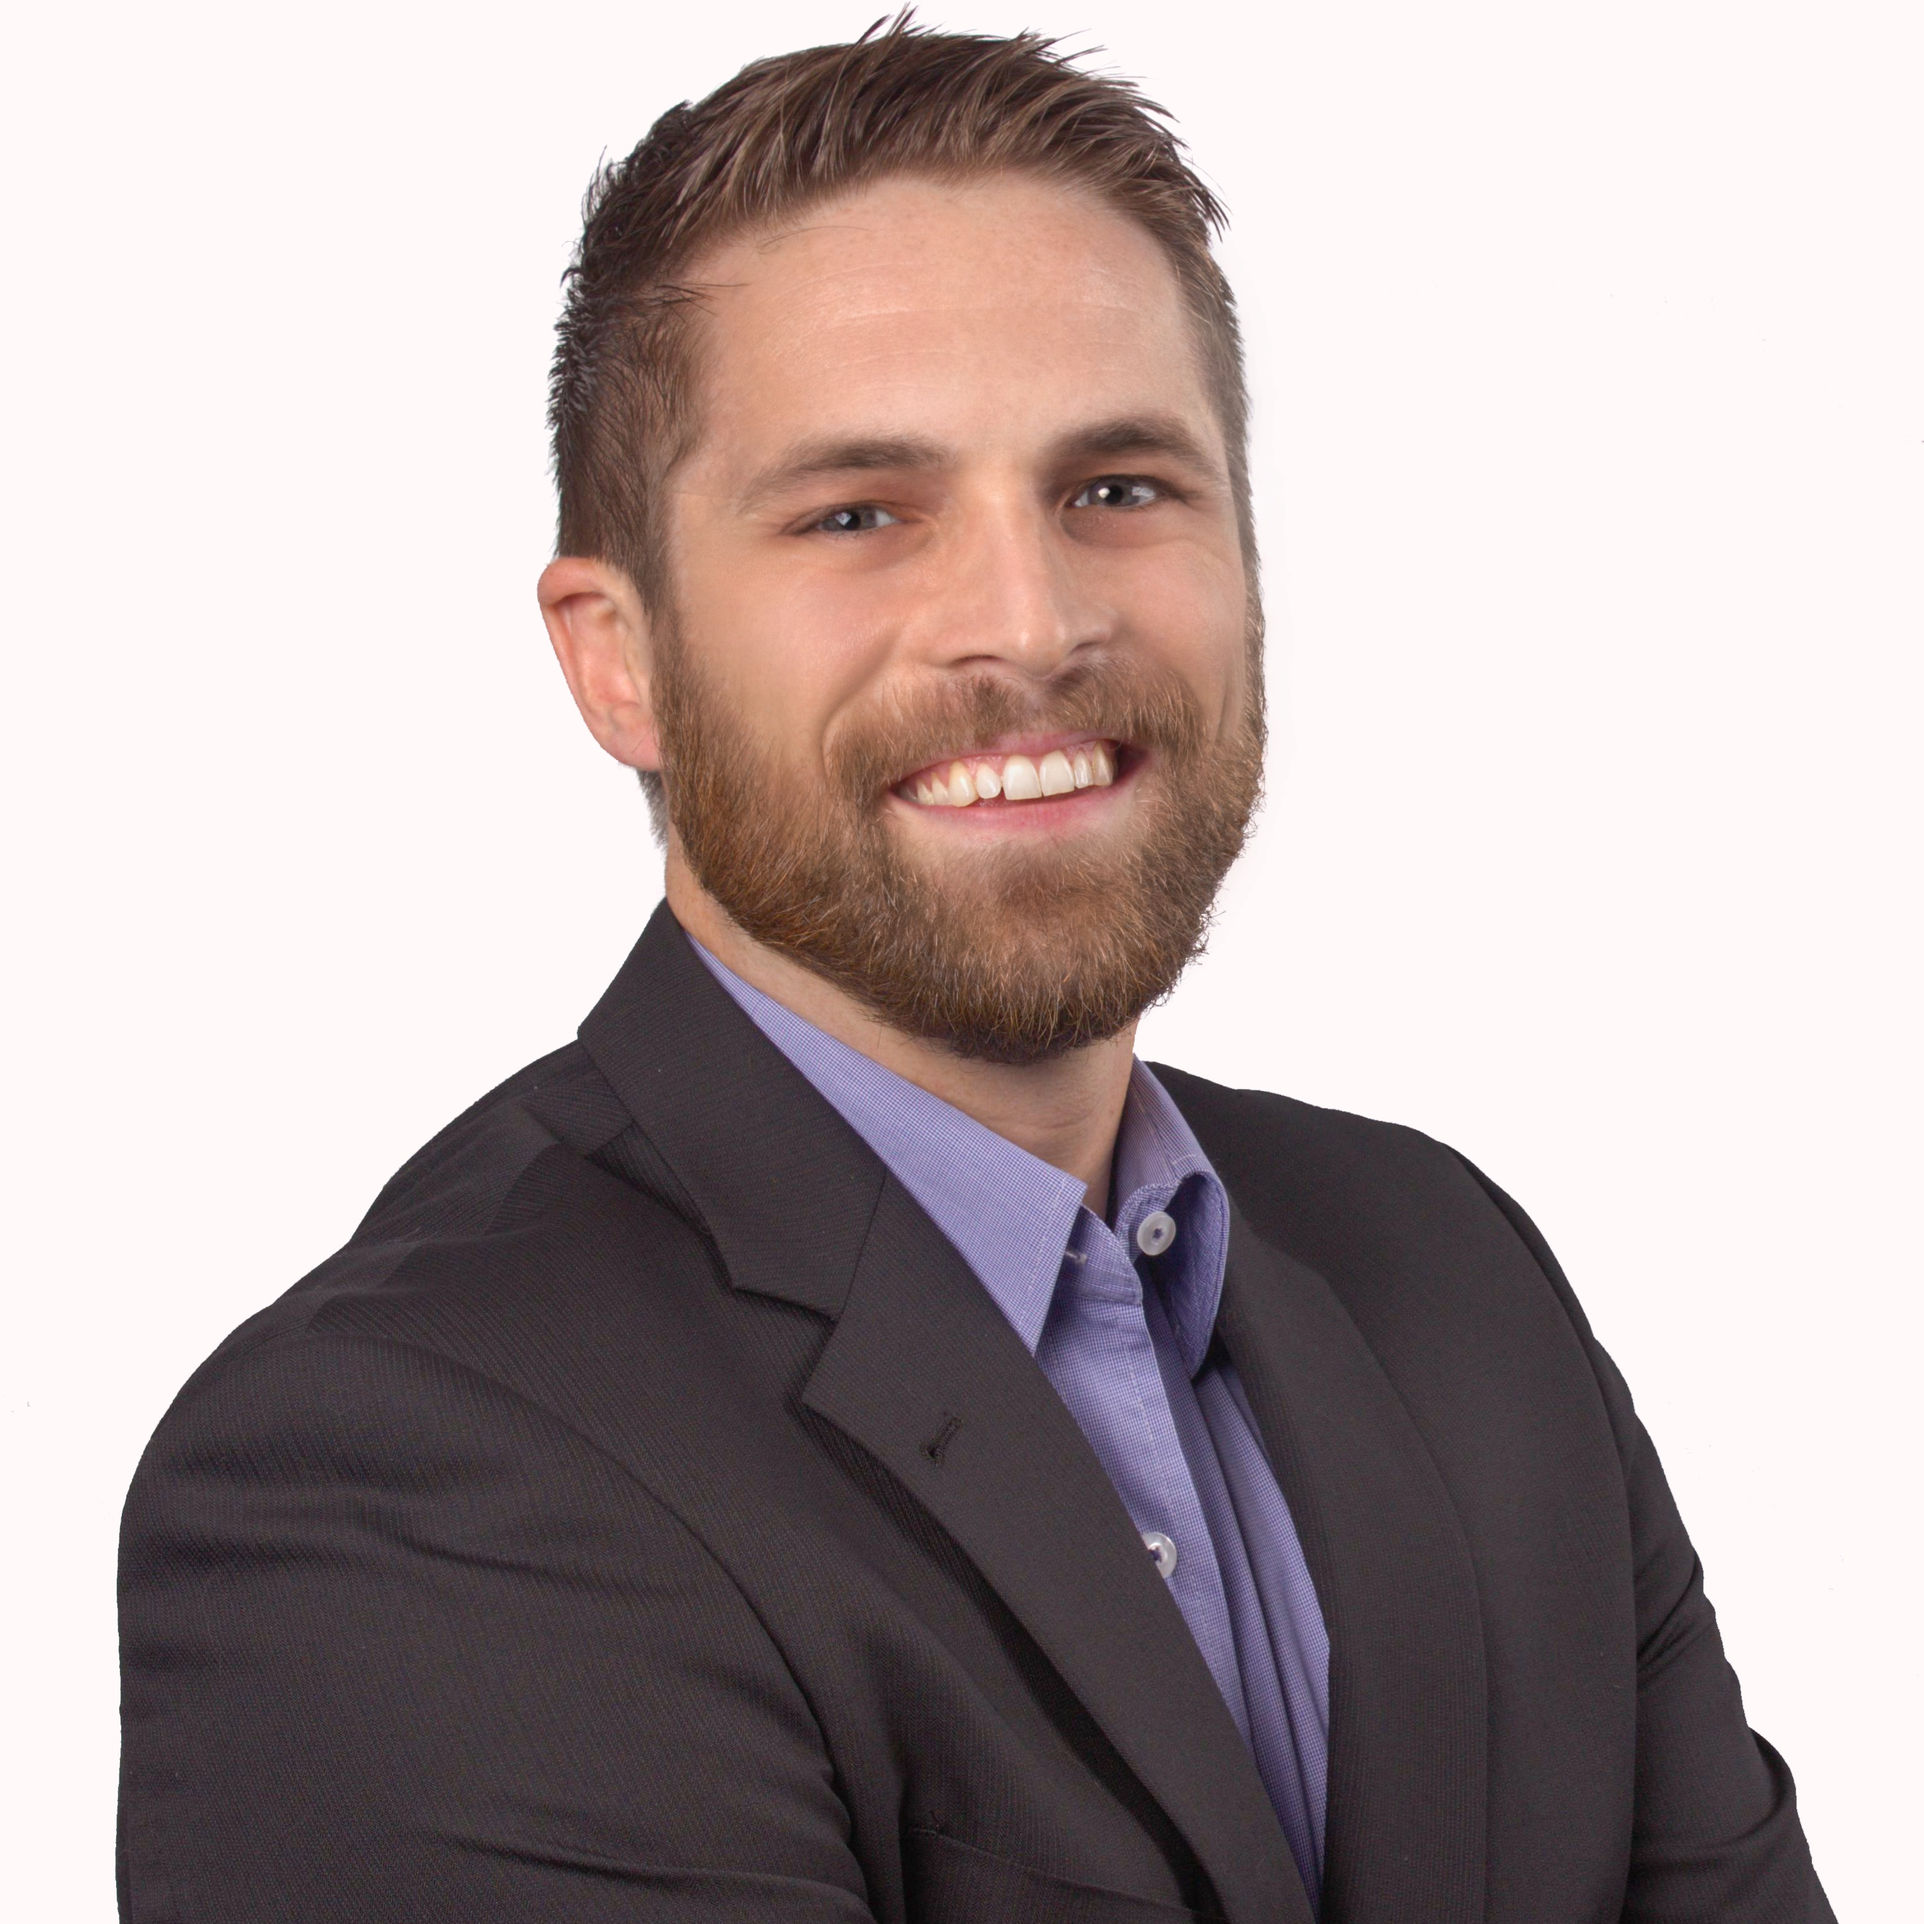
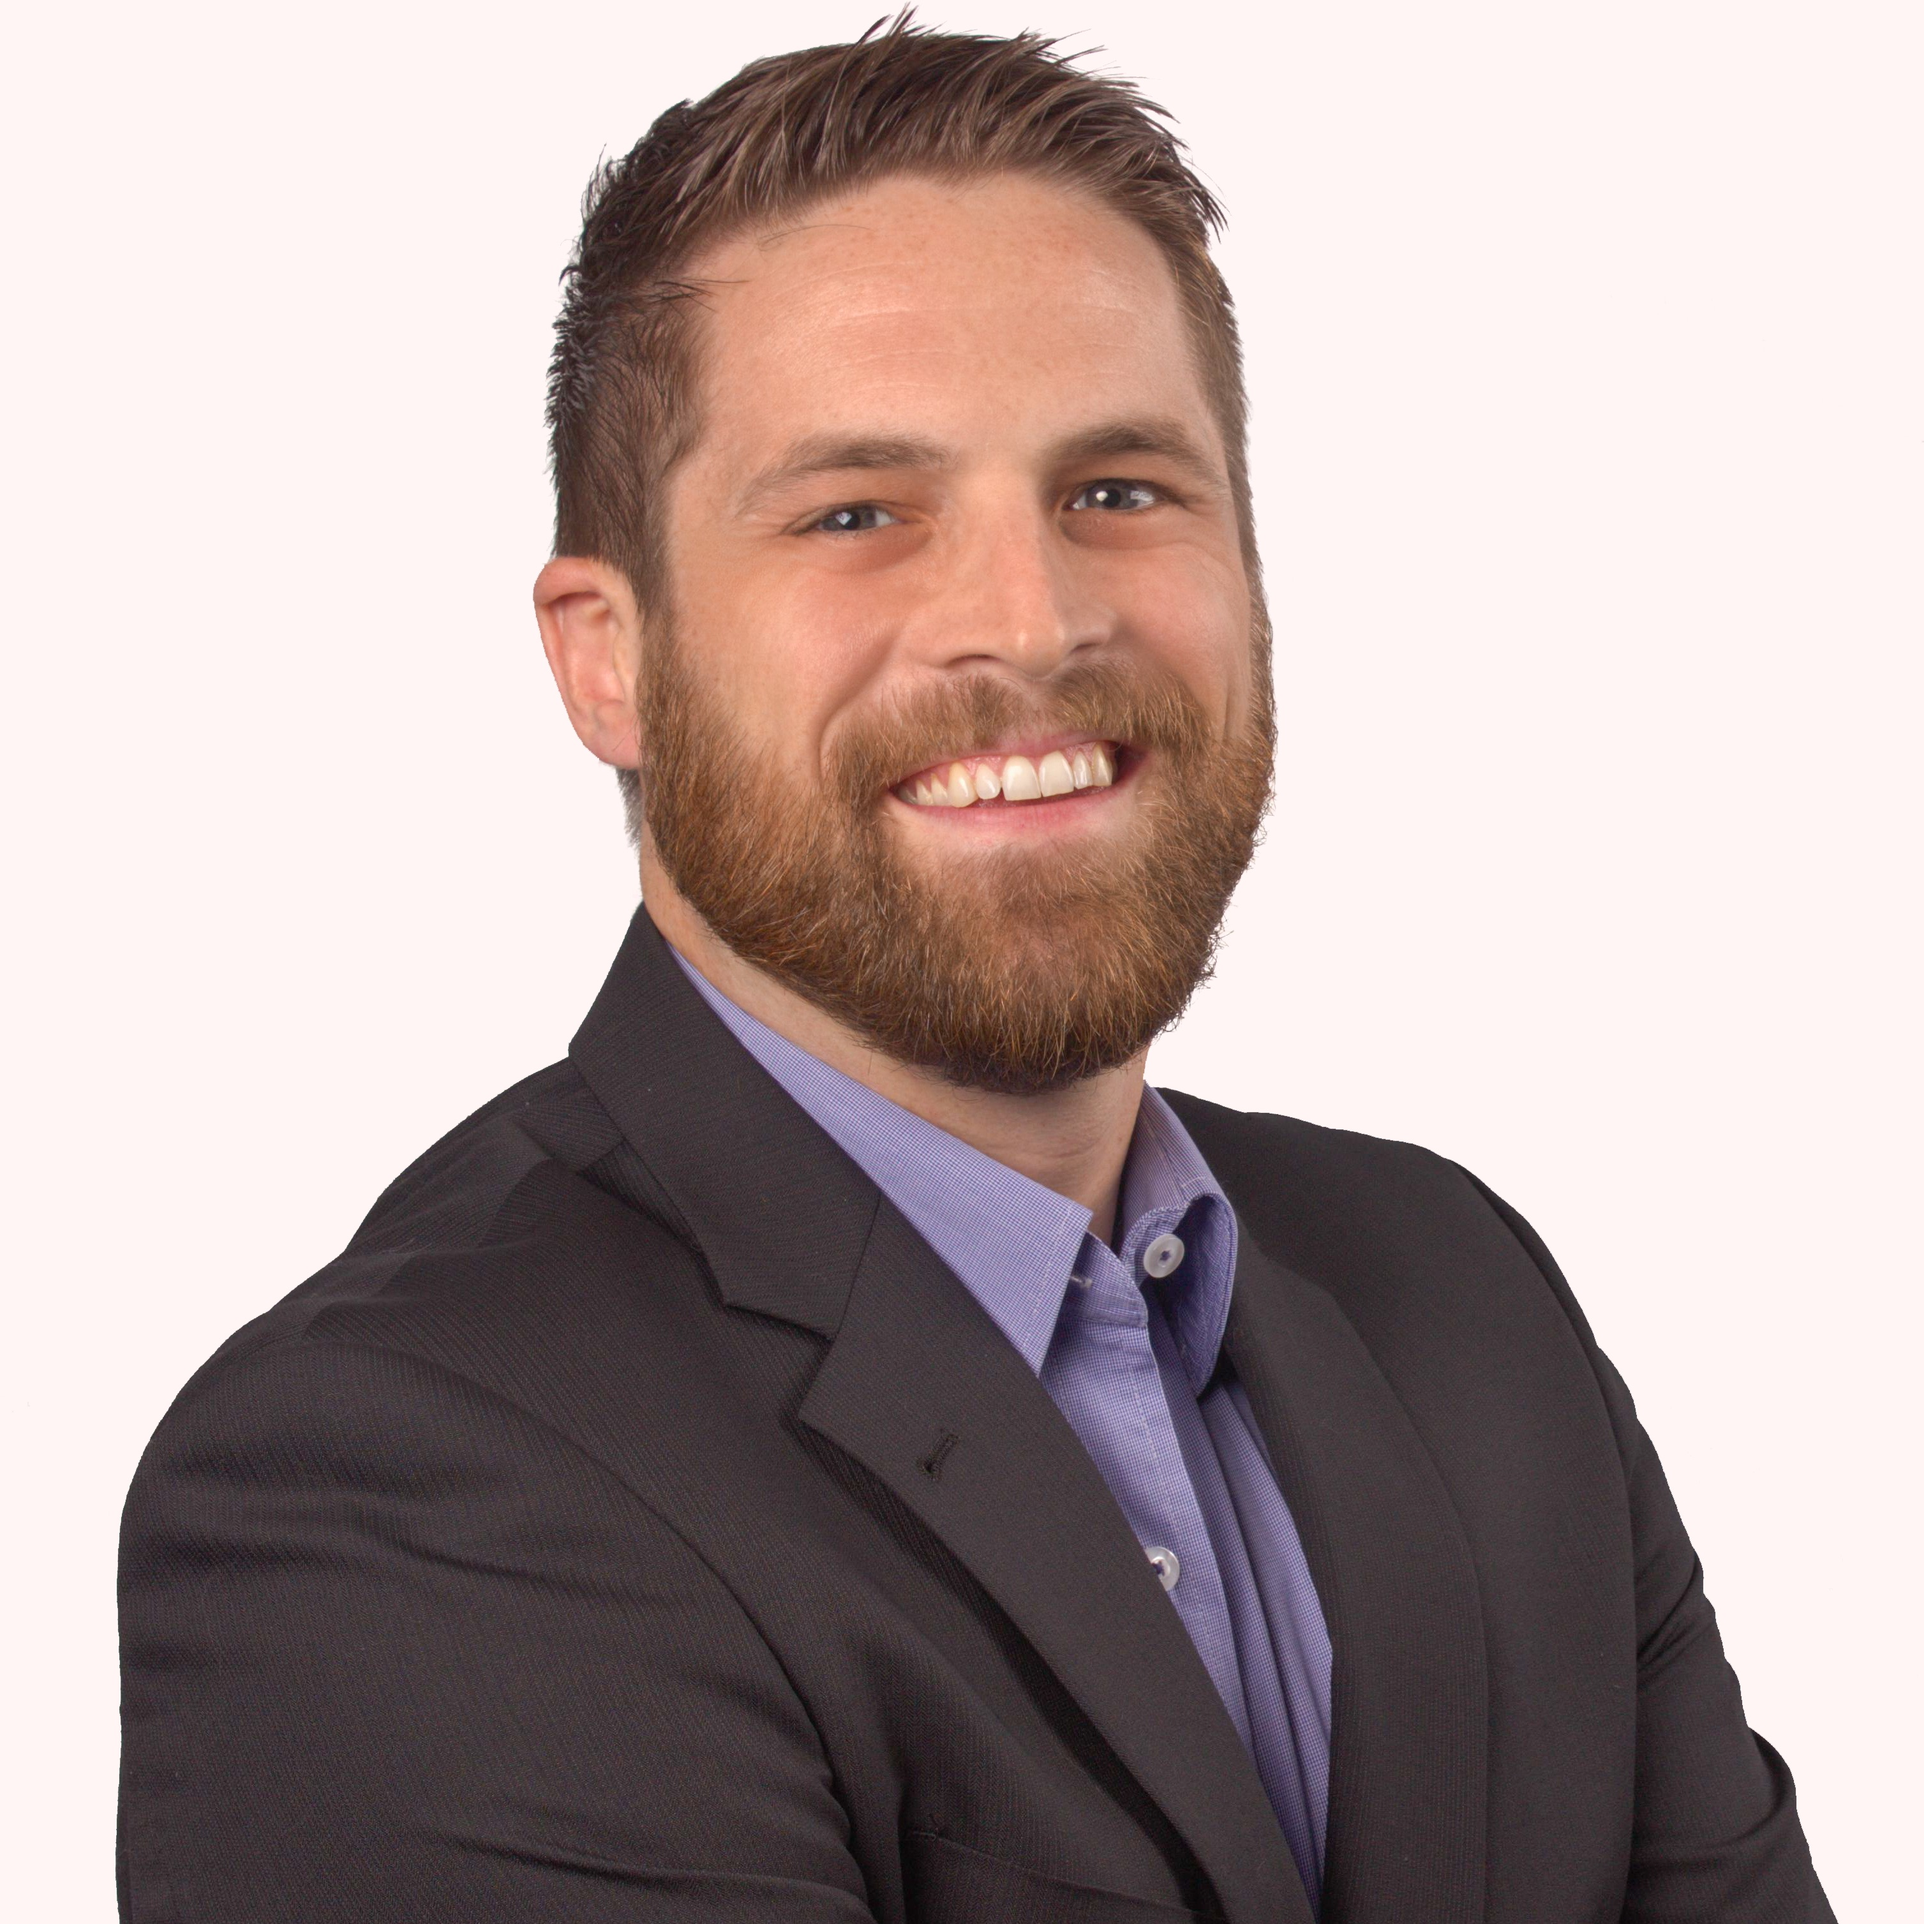
replaced photo

diff --git a/public/team.html b/public/team.html
@@ -1,1 +1,1 @@
-<!doctype html><html><head><meta charset="utf-8"><title>Evolution Lawyers</title><link rel="stylesheet" href="stylesheets/app-d1adafe1dc.css"><meta name="viewport" content="width=device-width,initial-scale=1"><!-- Generate using http://realfavicongenerator.net/ --><link rel="apple-touch-icon" sizes="57x57" href="/images/favicons/apple-touch-icon-57x57-517fec1f58.png"><link rel="apple-touch-icon" sizes="60x60" href="/images/favicons/apple-touch-icon-60x60-7429c00601.png"><link rel="apple-touch-icon" sizes="72x72" href="/images/favicons/apple-touch-icon-72x72-c958b0a3d5.png"><link rel="apple-touch-icon" sizes="76x76" href="/images/favicons/apple-touch-icon-76x76-f44134f2a8.png"><link rel="icon" type="image/png" href="/images/favicons/favicon-32x32-bbd5d053e4.png" sizes="32x32"><link rel="icon" type="image/png" href="/images/favicons/favicon-96x96-540cd9674c.png" sizes="96x96"><link rel="icon" type="image/png" href="/images/favicons/favicon-16x16-b2ff926b0a.png" sizes="16x16"><link rel="manifest" href="/images/favicons/manifest.json"><link rel="mask-icon" href="/images/favicons/safari-pinned-tab-f5f84a304e.svg" color="#5bbad5"><meta name="apple-mobile-web-app-title" content="Evolution Lawyers"><meta name="application-name" content="Evolution Lawyers"><meta name="msapplication-TileColor" content="#da532c"><meta name="theme-color" content="#ffffff"></head><body><nav class="navbar navbar-default navbar-fixed-top"><div class="top"><a href="#" class="navbar-toggle collapsed" data-toggle="collapse" data-target="#navbar" aria-expanded="false" aria-controls="navbar">Menu <i class="fa fa-bars" aria-hidden="true"></i><span class="sr-only">Toggle navigation</span></a><div id="navbar" class="navbar-collapse collapse"><ul class="nav navbar-nav"><li><a href="/">Home</a></li><li><a href="/team.html">The Team</a></li><li><a href="/services.html">Services</a></li><li><a href="/contact.html">Contact</a></li></ul></div><!--/.nav-collapse --></div><div class="navbar-header"><a class="navbar-logo" href="#"><img src="/images/logo-ba139baf3d.png"></a></div></nav><div class="container team"><h2>The Team</h2><div class="row"><div class="col-md-6 person"><div class="text-center"><img src="/images/portraits/tamina-a1eb2fe0f5.jpg"></div><h4>Tamina Cunningham-Adams</h4><h5>LLB (Hons), BA, B Ed (Tchg)</h5><h4>Director</h4><a class="contact-link" href="tel:+64211515137">M: +64 21 151 5137</a><br><a class="contact-link" href="mailto:tamina@evolutionlawyers.nz">E: tamina@evolutionlawyers.nz</a><div class="contact"><a href="https://nz.linkedin.com/pub/tamina-cunningham-adams/30/195/a64" target="_blank"><i class="fa fa-linkedin-square"></i>Tamina @ LinkedIn</a><br></div></div><div class="col-md-6 person"><div class="text-center"><img src="/images/portraits/thomas-16c4e8b217.jpg"></div><h4>Thomas Bloy</h4><h5>LLB</h5><h4>Director</h4><a class="contact-link" href="tel:+64211515137">T: +64 9 441 3426</a><br><a class="contact-link" href="tel:+6494413426">M: +64 27 453 8552</a><br><a class="contact-link" href="mailto:thomas@evolutionlawyers.nz">E: thomas@evolutionlawyers.nz</a><div class="contact"><a href="https://nz.linkedin.com/in/thomasbloy" target="_blank"><i class="fa fa-linkedin-square"></i>Thomas @ LinkedIn</a><br></div></div></div><div class="row"><div class="col-md-6 person"><div class="text-center"><img src="/images/portraits/sophie-75e59d2a92.jpg"></div><h4>Sophie Gagnon</h4><h4>Practice Manager</h4><a class="contact-link" href="tel:++6494413425">T: +64 9 441 3425</a><br><a class="contact-link" href="tel:+642102439766">M: +64 21 024 39766</a><br><a class="contact-link" href="mailto:sophie@evolutionlawyers.nz">E: sophie@evolutionlawyers.nz</a><div class="contact"><a href="https://nz.linkedin.com/in/sophie-gagnon-405b1299" target="_blank"><i class="fa fa-linkedin-square"></i>Sophie @ LinkedIn</a><br></div></div><div class="col-md-6 person" id="kieran"><div class="text-center"><img src="/images/portraits/kieran-bc7a786bd7.jpg"></div><h4>Kieran Boyle</h4><h5>LLB</h5><h4>Solicitor</h4><a class="contact-link" href="tel:+6494413596">T: +64 9 441 3596</a><br><a class="contact-link" href="tel:+64277150587">M: +64 27 715 0587</a><br><a class="contact-link" href="mailto:kieran@evolutionlawyers.nz">E: kieran@evolutionlawyers.nz</a><div class="contact"><a href="https://nz.linkedin.com/in/kieran-boyle-29564399" target="_blank"><i class="fa fa-linkedin-square"></i>Kieran @ LinkedIn</a><br></div></div></div></div><footer class="footer"><div class="container"><div class="row"><div class="col-xs-4 col-md-2 col-md-offset-3 col-xs-offset-0 icons"><a href="mailto:mail@evolutionlawyers.nz"><i class="fa fa-envelope-o"></i></a></div><div class="col-xs-4 col-md-2 icons"><a href="tel:0800352993"><i class="fa fa-phone"></i></a></div><div class="col-xs-4 col-md-2 icons"><a href="https://www.facebook.com/evolutionlawyers" target="_blank"><i class="fa fa-facebook"></i></a></div></div><div class="footer-row"><div class="col-logo"><!-- <img src="/images/favicons/favicon-32x32-bbd5d053e4.png" /> --></div><div class="col-text">Evolution Lawyers Limited (NZCN 5709629) is an incorporated law firm under the Lawyers and Conveyancers Act 2006.<br>Copyright 2015. All rights reserved.</div></div></div></footer><script src="javascripts/app-252839c1d58b3f821d45.js"></script></body></html>
+<!doctype html><html><head><meta charset="utf-8"><title>Evolution Lawyers</title><link rel="stylesheet" href="stylesheets/app-d1adafe1dc.css"><meta name="viewport" content="width=device-width,initial-scale=1"><!-- Generate using http://realfavicongenerator.net/ --><link rel="apple-touch-icon" sizes="57x57" href="/images/favicons/apple-touch-icon-57x57-517fec1f58.png"><link rel="apple-touch-icon" sizes="60x60" href="/images/favicons/apple-touch-icon-60x60-7429c00601.png"><link rel="apple-touch-icon" sizes="72x72" href="/images/favicons/apple-touch-icon-72x72-c958b0a3d5.png"><link rel="apple-touch-icon" sizes="76x76" href="/images/favicons/apple-touch-icon-76x76-f44134f2a8.png"><link rel="icon" type="image/png" href="/images/favicons/favicon-32x32-bbd5d053e4.png" sizes="32x32"><link rel="icon" type="image/png" href="/images/favicons/favicon-96x96-540cd9674c.png" sizes="96x96"><link rel="icon" type="image/png" href="/images/favicons/favicon-16x16-b2ff926b0a.png" sizes="16x16"><link rel="manifest" href="/images/favicons/manifest.json"><link rel="mask-icon" href="/images/favicons/safari-pinned-tab-f5f84a304e.svg" color="#5bbad5"><meta name="apple-mobile-web-app-title" content="Evolution Lawyers"><meta name="application-name" content="Evolution Lawyers"><meta name="msapplication-TileColor" content="#da532c"><meta name="theme-color" content="#ffffff"></head><body><nav class="navbar navbar-default navbar-fixed-top"><div class="top"><a href="#" class="navbar-toggle collapsed" data-toggle="collapse" data-target="#navbar" aria-expanded="false" aria-controls="navbar">Menu <i class="fa fa-bars" aria-hidden="true"></i><span class="sr-only">Toggle navigation</span></a><div id="navbar" class="navbar-collapse collapse"><ul class="nav navbar-nav"><li><a href="/">Home</a></li><li><a href="/team.html">The Team</a></li><li><a href="/services.html">Services</a></li><li><a href="/contact.html">Contact</a></li></ul></div><!--/.nav-collapse --></div><div class="navbar-header"><a class="navbar-logo" href="#"><img src="/images/logo-ba139baf3d.png"></a></div></nav><div class="container team"><h2>The Team</h2><div class="row"><div class="col-md-6 person"><div class="text-center"><img src="/images/portraits/tamina-a1eb2fe0f5.jpg"></div><h4>Tamina Cunningham-Adams</h4><h5>LLB (Hons), BA, B Ed (Tchg)</h5><h4>Director</h4><a class="contact-link" href="tel:+64211515137">M: +64 21 151 5137</a><br><a class="contact-link" href="mailto:tamina@evolutionlawyers.nz">E: tamina@evolutionlawyers.nz</a><div class="contact"><a href="https://nz.linkedin.com/pub/tamina-cunningham-adams/30/195/a64" target="_blank"><i class="fa fa-linkedin-square"></i>Tamina @ LinkedIn</a><br></div></div><div class="col-md-6 person"><div class="text-center"><img src="/images/portraits/thomas-e71d3a0453.jpg"></div><h4>Thomas Bloy</h4><h5>LLB</h5><h4>Director</h4><a class="contact-link" href="tel:+64211515137">T: +64 9 441 3426</a><br><a class="contact-link" href="tel:+6494413426">M: +64 27 453 8552</a><br><a class="contact-link" href="mailto:thomas@evolutionlawyers.nz">E: thomas@evolutionlawyers.nz</a><div class="contact"><a href="https://nz.linkedin.com/in/thomasbloy" target="_blank"><i class="fa fa-linkedin-square"></i>Thomas @ LinkedIn</a><br></div></div></div><div class="row"><div class="col-md-6 person"><div class="text-center"><img src="/images/portraits/sophie-75e59d2a92.jpg"></div><h4>Sophie Gagnon</h4><h4>Practice Manager</h4><a class="contact-link" href="tel:++6494413425">T: +64 9 441 3425</a><br><a class="contact-link" href="tel:+642102439766">M: +64 21 024 39766</a><br><a class="contact-link" href="mailto:sophie@evolutionlawyers.nz">E: sophie@evolutionlawyers.nz</a><div class="contact"><a href="https://nz.linkedin.com/in/sophie-gagnon-405b1299" target="_blank"><i class="fa fa-linkedin-square"></i>Sophie @ LinkedIn</a><br></div></div><div class="col-md-6 person" id="kieran"><div class="text-center"><img src="/images/portraits/kieran-bc7a786bd7.jpg"></div><h4>Kieran Boyle</h4><h5>LLB</h5><h4>Solicitor</h4><a class="contact-link" href="tel:+6494413596">T: +64 9 441 3596</a><br><a class="contact-link" href="tel:+64277150587">M: +64 27 715 0587</a><br><a class="contact-link" href="mailto:kieran@evolutionlawyers.nz">E: kieran@evolutionlawyers.nz</a><div class="contact"><a href="https://nz.linkedin.com/in/kieran-boyle-29564399" target="_blank"><i class="fa fa-linkedin-square"></i>Kieran @ LinkedIn</a><br></div></div></div></div><footer class="footer"><div class="container"><div class="row"><div class="col-xs-4 col-md-2 col-md-offset-3 col-xs-offset-0 icons"><a href="mailto:mail@evolutionlawyers.nz"><i class="fa fa-envelope-o"></i></a></div><div class="col-xs-4 col-md-2 icons"><a href="tel:0800352993"><i class="fa fa-phone"></i></a></div><div class="col-xs-4 col-md-2 icons"><a href="https://www.facebook.com/evolutionlawyers" target="_blank"><i class="fa fa-facebook"></i></a></div></div><div class="footer-row"><div class="col-logo"><!-- <img src="/images/favicons/favicon-32x32-bbd5d053e4.png" /> --></div><div class="col-text">Evolution Lawyers Limited (NZCN 5709629) is an incorporated law firm under the Lawyers and Conveyancers Act 2006.<br>Copyright 2015. All rights reserved.</div></div></div></footer><script src="javascripts/app-252839c1d58b3f821d45.js"></script></body></html>
